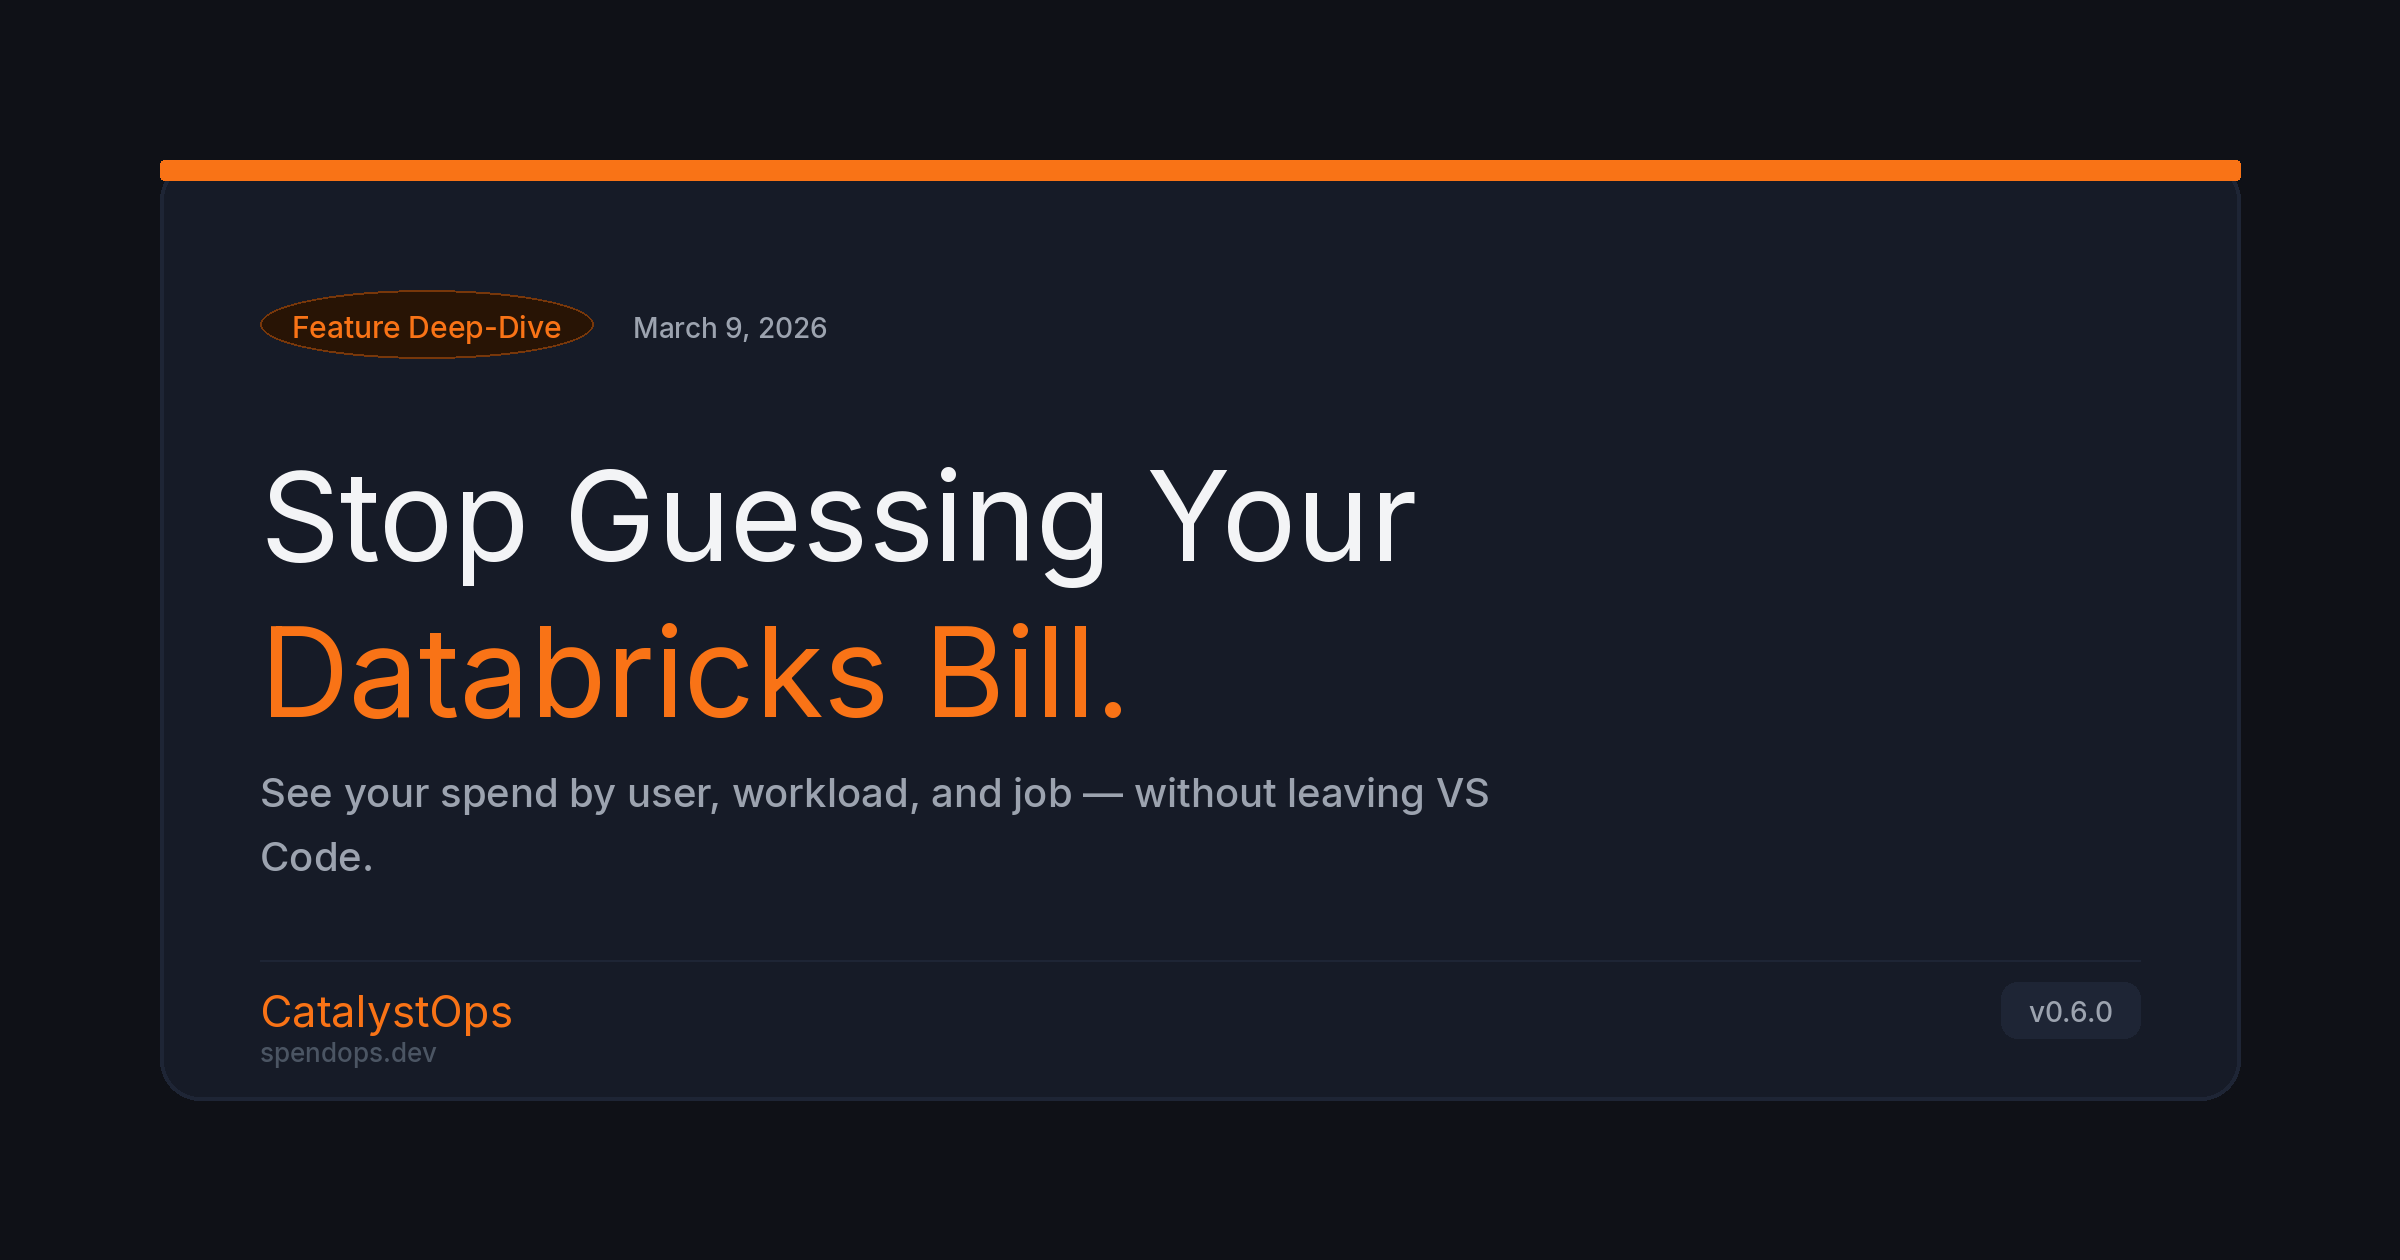
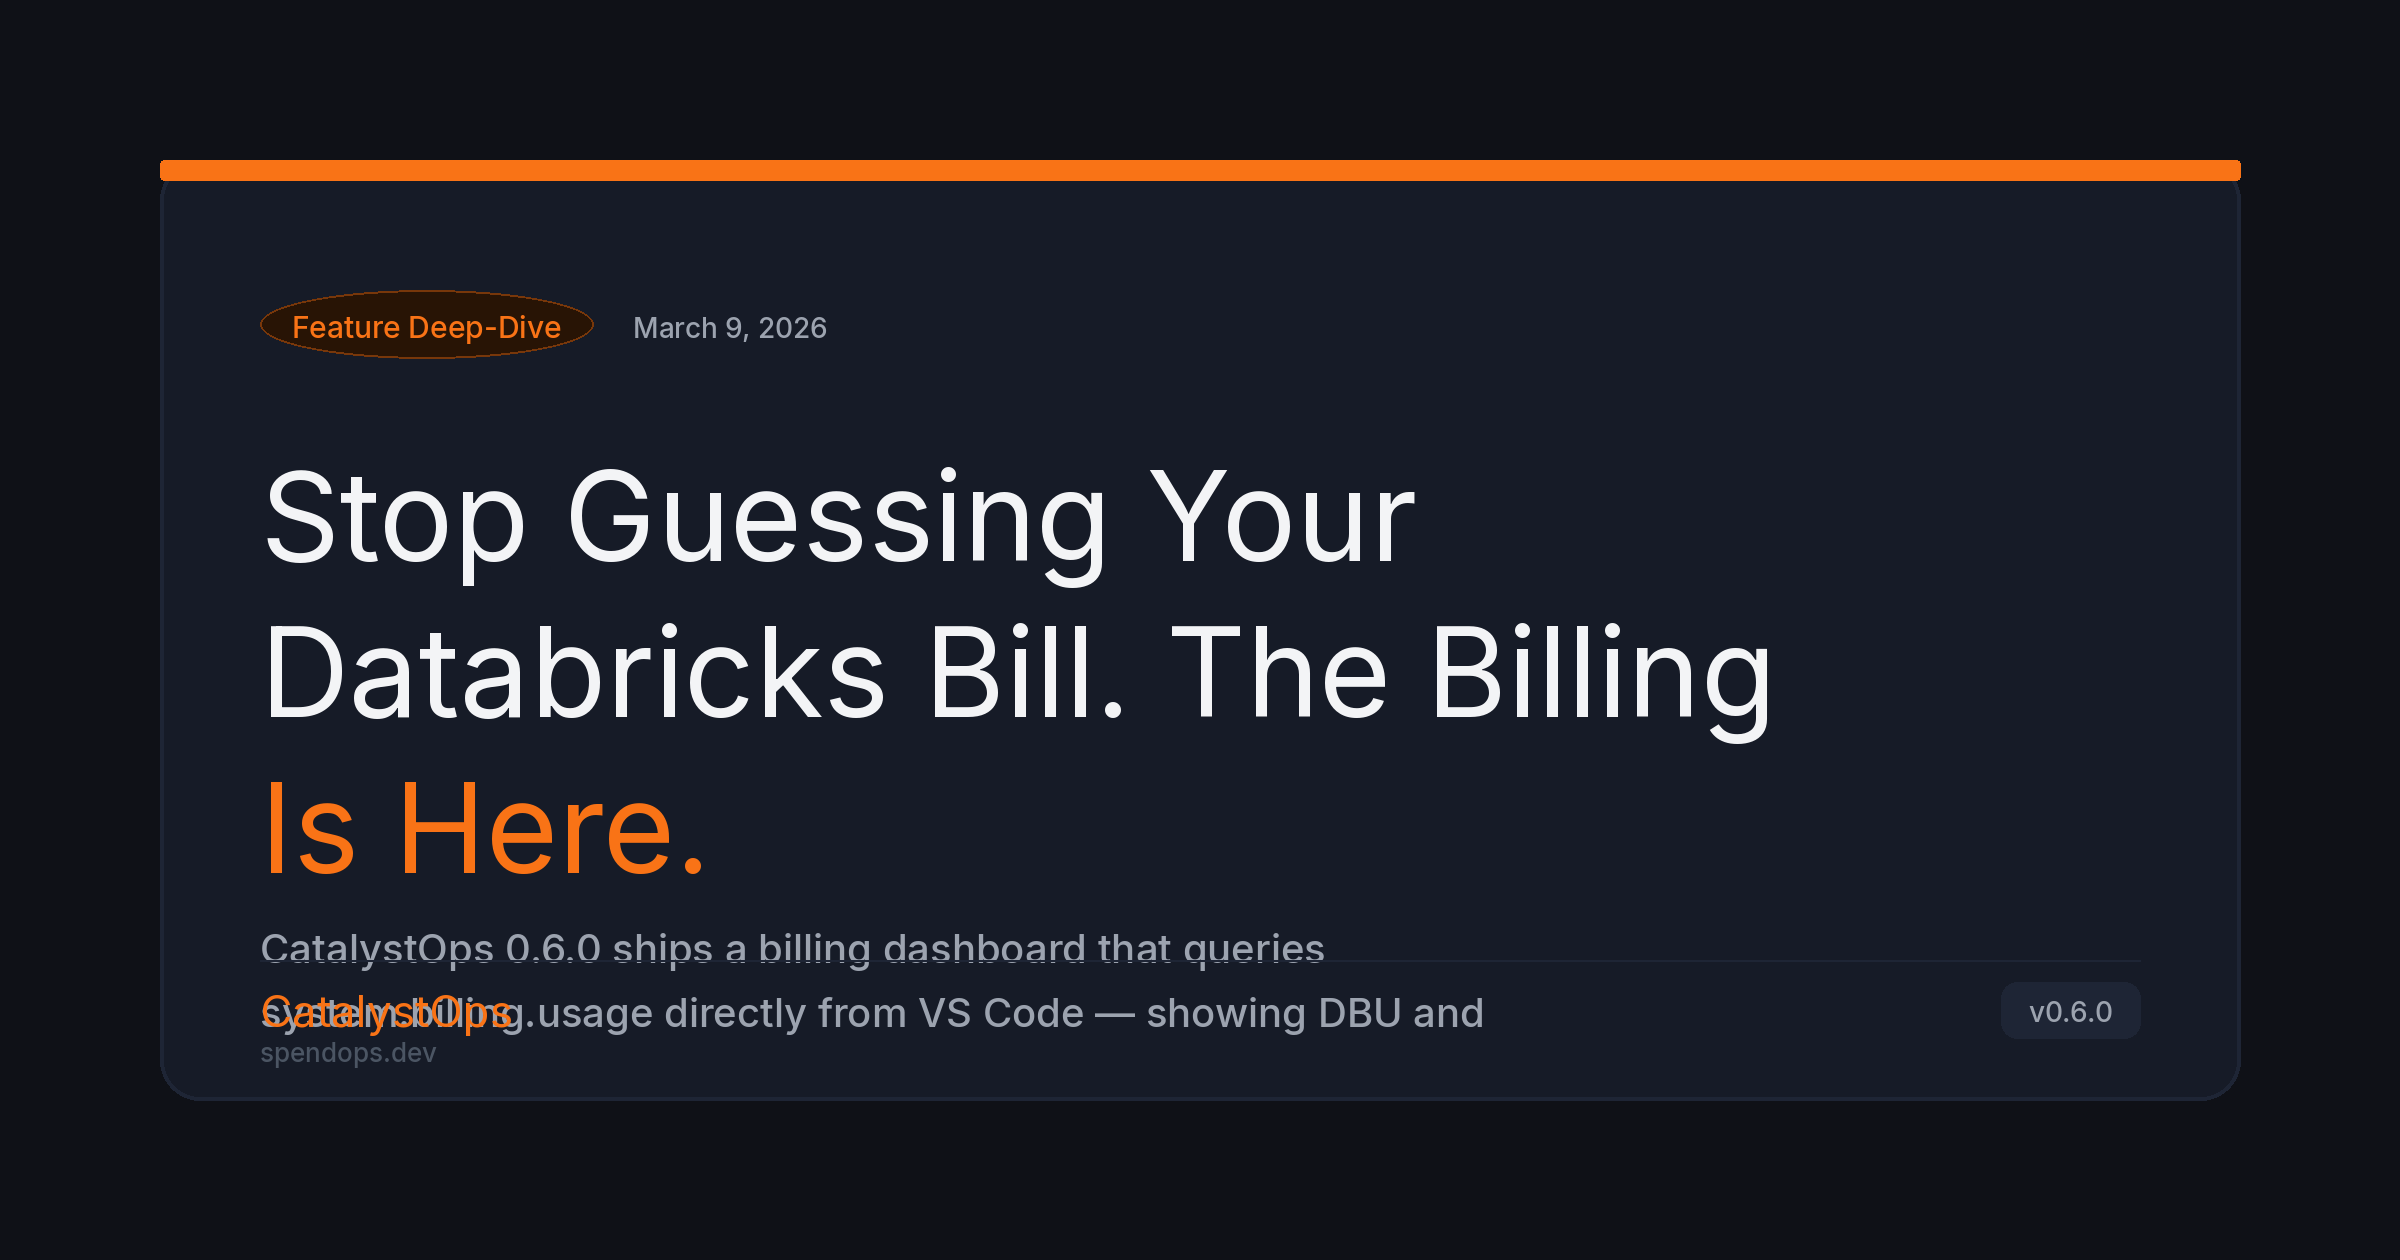
Add GitHub Action + script for automatic OG image generation

diff --git a/scripts/generate_og.py b/scripts/generate_og.py
@@ -1,0 +1,86 @@
+#!/usr/bin/env python3
+"""generate_og.py — Auto-generate OG images for all blog posts."""
+
+import os, re, textwrap, urllib.request, zipfile, io
+from pathlib import Path
+from PIL import Image, ImageDraw, ImageFont
+
+BG=(15,17,23); CARD=(22,27,39); BORDER=(30,37,53); ORANGE=(249,115,22)
+WHITE=(243,244,246); GRAY=(156,163,175); DGRAY=(75,85,99)
+W,H=2400,1260; SCALE=2
+FONT_DIR = Path(__file__).parent.parent / ".fonts"
+
+def ensure_fonts():
+    fv = FONT_DIR/"InterVariable.ttf"; fm = FONT_DIR/"Inter-Medium.ttf"
+    if fv.exists() and fm.exists(): return str(fv), str(fm)
+    print("Downloading Inter font...")
+    FONT_DIR.mkdir(exist_ok=True)
+    data = urllib.request.urlopen("https://github.com/rsms/inter/releases/download/v4.0/Inter-4.0.zip", timeout=60).read()
+    with zipfile.ZipFile(io.BytesIO(data)) as z:
+        fv.write_bytes(z.open("InterVariable.ttf").read())
+        fm.write_bytes(z.open("extras/ttf/Inter-Medium.ttf").read())
+    return str(fv), str(fm)
+
+def extract_meta(html):
+    def get(pat, default=""):
+        m = re.search(pat, html, re.DOTALL)
+        return m.group(1).strip() if m else default
+    badge   = get(r'<span class="badge">([^<]+)</span>')
+    date    = get(r'<span class="text-xs text-muted">([A-Z][a-z]+ \d+, \d{4})</span>')
+    version = get(r'<span class="text-xs text-muted font-mono[^"]*">(v[\d.]+)</span>')
+    title_block = re.sub(r'<[^>]+>',' ', get(r'<h1[^>]*>(.*?)</h1>'))
+    title_block = re.sub(r'\s+',' ', title_block).strip()
+    parts = title_block.rsplit(None, 2)
+    plain = ' '.join(parts[:-2]) if len(parts) > 2 else title_block
+    accent = ' '.join(parts[-2:]) if len(parts) > 2 else ""
+    desc = get(r'<meta name="description" content="([^"]+)"')
+    return {"badge":badge or "Blog","date":date,"version":version,
+            "title":plain,"accent":accent,"subtitle":desc[:120]}
+
+def make_og(meta, fv, fm, out):
+    img=Image.new("RGB",(W,H),BG); d=ImageDraw.Draw(img)
+    M=80*SCALE; cx1,cy1,cx2,cy2=M,M,W-M,H-M
+    d.rounded_rectangle([cx1,cy1,cx2,cy2],radius=20*SCALE,fill=CARD,outline=BORDER,width=SCALE*2)
+    d.rounded_rectangle([cx1,cy1,cx2,cy1+10*SCALE],radius=4,fill=ORANGE)
+    fb=ImageFont.truetype(fm,15*SCALE); fmt=ImageFont.truetype(fm,14*SCALE)
+    ft=ImageFont.truetype(fv,62*SCALE); fs=ImageFont.truetype(fm,20*SCALE)
+    fbr=ImageFont.truetype(fv,22*SCALE); fu=ImageFont.truetype(fm,13*SCALE)
+    fver=ImageFont.truetype(fm,14*SCALE)
+    px=cx1+50*SCALE; bx,by=px,cy1+65*SCALE
+    bw=int(d.textlength(meta["badge"],font=fb))+32*SCALE; bh=34*SCALE
+    d.rounded_rectangle([bx,by,bx+bw,by+bh],radius=999,fill=(40,20,5),outline=(120,55,10),width=SCALE)
+    d.text((bx+16*SCALE,by+9*SCALE),meta["badge"],fill=ORANGE,font=fb)
+    if meta["date"]: d.text((bx+bw+20*SCALE,by+10*SCALE),meta["date"],fill=GRAY,font=fmt)
+    y=cy1+140*SCALE
+    for line in textwrap.wrap(meta["title"],width=28)[:2]:
+        d.text((px,y),line,fill=WHITE,font=ft); y+=78*SCALE
+    if meta["accent"]: d.text((px,y),meta["accent"],fill=ORANGE,font=ft); y+=78*SCALE
+    y+=8*SCALE
+    for line in textwrap.wrap(meta["subtitle"],width=62)[:2]:
+        d.text((px,y),line,fill=GRAY,font=fs); y+=32*SCALE
+    div_y=cy2-70*SCALE
+    d.line([(px,div_y),(cx2-50*SCALE,div_y)],fill=BORDER,width=SCALE)
+    d.text((px,cy2-58*SCALE),"CatalystOps",fill=ORANGE,font=fbr)
+    d.text((px,cy2-32*SCALE),"spendops.dev",fill=DGRAY,font=fu)
+    if meta["version"]:
+        vw=int(d.textlength(meta["version"],font=fver))+28*SCALE
+        px2=cx2-50*SCALE-vw; pcy=cy2-45*SCALE
+        d.rounded_rectangle([px2,pcy-14*SCALE,px2+vw,pcy+14*SCALE],radius=8*SCALE,fill=BORDER)
+        d.text((px2+14*SCALE,pcy-8*SCALE),meta["version"],fill=GRAY,font=fver)
+    Path(out).parent.mkdir(parents=True,exist_ok=True)
+    img.save(out,"PNG",optimize=True)
+    print(f"  → {out} ({Path(out).stat().st_size//1024}KB)")
+
+def main():
+    fv,fm=ensure_fonts()
+    blog_root=Path(__file__).parent.parent/"blog"
+    posts=[p for p in sorted(blog_root.glob("*/index.html")) if p.parent!=blog_root]
+    print(f"Found {len(posts)} post(s)")
+    for p in posts:
+        meta=extract_meta(p.read_text(encoding="utf-8"))
+        print(f"Generating: {p.parent.name}")
+        make_og(meta,fv,fm,str(p.parent/"og.png"))
+    print("Done.")
+
+if __name__=="__main__":
+    main()
